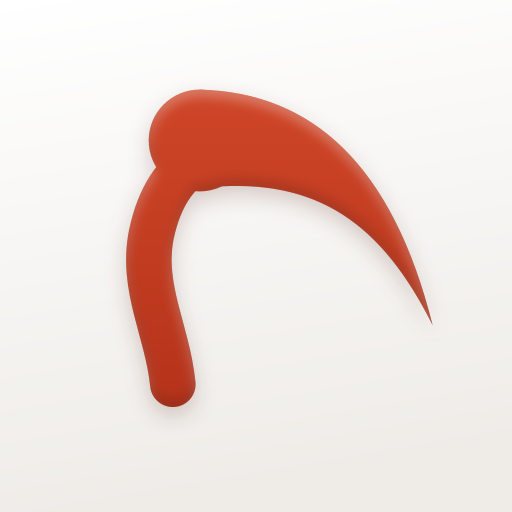
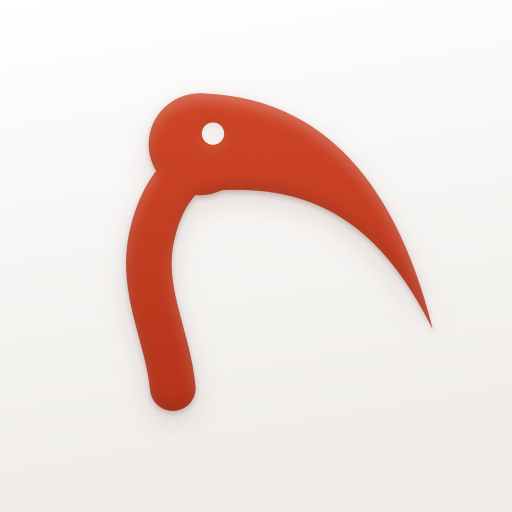
docs: restore the bird's eye in the brand master (#1004)
* docs: restore the bird's eye in the brand master

Add the eye from the approved app icon as its own symbol and cut it
out of the mark, so the background shows through on light and dark.
Favicons leave it out, as the app's small icon does. Halve the
vertical optical lift so the bird sits a little lower in containers.

Closes #1003

* docs: cut the eye crisply and add an eye depth setting

Cut the eye after the depth so its edge stays sharp, and fade the
depth's rim light and shade back in inside it with eye_depth (0.35) in
settings.json. Tag every copy of the neck and head in the animation,
and fix the symbol count wording.

Refs #1003

* docs: layer the brand depth and soften the eye shading

Replace the single shadow with a tight contact shadow and a wide,
faint ambient one, and soften the rim light and shade, all set in
settings.json. Keep square files the same size with layout.shadow_room.
Feather the eye's shading instead of clipping it, and fade it in after
the head grows in the animation.

Refs #1003

---------

diff --git a/brand/build.py b/brand/build.py
@@ -114,7 +114,8 @@ def optical_centre(name, neck=None):
 
 
 def depth_filter(fid, box):
-    """One soft light along the top rim, a shade along the bottom rim, and a short shadow.
+    """One soft light along the top rim, a shade along the bottom rim, and two shadows: a tight
+    contact shadow right under the shape and a wide, faint ambient one.
 
     The region is fixed in the symbol's units around its whole outline, so the shadow is never cut
     off, even mid-animation when only part of the shape is drawn.
@@ -129,11 +130,16 @@ def depth_filter(fid, box):
         f'<feFlood flood-color="#fff" flood-opacity="{D["rim_light"]}"/><feComposite in2="top" operator="in" result="hl"/>'
         f'<feOffset in="b" dy="{-D["rim_offset"]}" result="bu"/><feComposite in="SourceAlpha" in2="bu" operator="out" result="bot"/>'
         f'<feFlood flood-color="#000" flood-opacity="{D["rim_shade"]}"/><feComposite in2="bot" operator="in" result="sh"/>'
+        f'<feGaussianBlur in="SourceAlpha" stdDeviation="{D["contact_blur"]}" result="cb"/>'
+        f'<feOffset in="cb" dy="{D["contact_drop"]}" result="co"/>'
+        f'<feFlood flood-color="{D["shadow_colour"]}" flood-opacity="{D["contact_opacity"]}"/>'
+        '<feComposite in2="co" operator="in" result="contact"/>'
         f'<feGaussianBlur in="SourceAlpha" stdDeviation="{D["shadow_blur"]}" result="db"/>'
         f'<feOffset in="db" dy="{D["shadow_drop"]}" result="do"/>'
         f'<feFlood flood-color="{D["shadow_colour"]}" flood-opacity="{D["shadow_opacity"]}"/>'
         '<feComposite in2="do" operator="in" result="drop"/>'
-        '<feMerge><feMergeNode in="drop"/><feMergeNode in="SourceGraphic"/><feMergeNode in="hl"/><feMergeNode in="sh"/></feMerge>'
+        '<feMerge><feMergeNode in="drop"/><feMergeNode in="contact"/><feMergeNode in="SourceGraphic"/>'
+        '<feMergeNode in="hl"/><feMergeNode in="sh"/></feMerge>'
         "</filter>"
     )
 
@@ -150,9 +156,37 @@ def draw(name, k, tx, ty, paint, uid, depth=False, neck=None):
                 + depth_filter(f"{uid}f", SYM[name][0]))
         paint, attr = f"url(#{uid}g)", f' filter="url(#{uid}f)"'
     if neck:
-        body = thicken(body, neck)
+        body = thicken(body, neck)       # favicon sizes: no eye, as in the app's small icon
     body = body.replace("currentColor", paint)
-    return defs, f'<g transform="translate({tx:.3f} {ty:.3f}) scale({k:.5f})"><g{attr}>{body}</g></g>'
+    shape = f"<g{attr}>{body}</g>"
+    if name == "mark" and not neck:
+        mask, shape = cut_eye(body, uid, attr)
+        defs += mask
+    return defs, f'<g transform="translate({tx:.3f} {ty:.3f}) scale({k:.5f})">{shape}</g>'
+
+
+def cut_eye(body, uid, attr):
+    """Cut the eye out of the bird, so whatever is behind it shows through on any background.
+
+    The cut is made after the depth, so the eye is crisp. `eye_depth` (0 to 1) then fades in the
+    depth's own rim light and shade inside the eye, for a slightly inset look.
+    """
+    bx, by, bw, bh = SYM["mark"][0]
+    m = 4 * D["shadow_blur"]
+    box = f'x="{bx - m:g}" y="{by - m:g}" width="{bw + 2 * m:g}" height="{bh + 2 * m + D["shadow_drop"]:g}"'
+    eye = SYM["eye"][1].replace("currentColor", "#000")
+    defs = f'<mask id="{uid}e" maskUnits="userSpaceOnUse" {box}><rect {box} fill="#fff"/>{eye}</mask>'
+    shape = f'<g mask="url(#{uid}e)"><g{attr}>{body}</g></g>'
+    if attr and D["eye_depth"] > 0:
+        (ex, ey, ew, eh), _ = SYM["eye"]
+        cx, cy, r = ex + ew / 2, ey + eh / 2, 3.2 * ew      # feathered, so the shading has no edge
+        defs += (f'<radialGradient id="{uid}r" gradientUnits="userSpaceOnUse" cx="{cx:g}" cy="{cy:g}" r="{r:g}">'
+                 '<stop offset="0.3" stop-color="#fff"/><stop offset="1" stop-color="#000"/></radialGradient>'
+                 f'<mask id="{uid}s" maskUnits="userSpaceOnUse" x="{cx - r:g}" y="{cy - r:g}" width="{2 * r:g}" height="{2 * r:g}">'
+                 f'<circle cx="{cx:g}" cy="{cy:g}" r="{r:g}" fill="url(#{uid}r)"/></mask>')
+        shape += (f'<g class="eyeshade" mask="url(#{uid}s)" opacity="{D["eye_depth"]:g}">'
+                  f'<g{attr}><g mask="url(#{uid}e)">{body}</g></g></g>')
+    return defs, shape
 
 
 def place(name, x, y, height, paint, uid, depth=False):
@@ -186,7 +220,7 @@ def doc(w, h, defs, body, size=None):
 
 def mark(paint, uid, depth=True):
     bh = SYM["mark"][0][3]
-    side = fitted_side("mark", PAD * bh + D["shadow_drop"])
+    side = fitted_side("mark", PAD * bh + L["shadow_room"])
     defs, body = centred("mark", side, bh, paint, uid, depth)
     return doc(side, side, defs, body, (512, 512))
 
@@ -354,18 +388,21 @@ def motion_css():
         f".neck{{stroke-dasharray:1;animation:draw {t['neck_duration']}s {t['ease']} {t['neck_start']}s backwards}}"
         f".crown{{transform-box:fill-box;transform-origin:18% 22%;"
         f"animation:grow {t['crown_duration']}s {t['crown_ease']} {t['crown_start']}s backwards}}"
+        # The eye's shading fades in once the head has grown, so the two copies never show apart.
+        f".eyeshade{{animation:fade 0.2s linear {t['crown_start'] + t['crown_duration']:g}s backwards}}"
         f".word{{animation:word {t['word_duration']}s {t['ease']} {t['word_start']}s backwards}}"
         "@keyframes draw{0%{stroke-dashoffset:1;opacity:0}8%{opacity:1}to{stroke-dashoffset:0}}"
         f"@keyframes grow{{0%{{transform:rotate({t['crown_turn']}deg) scale({t['crown_from']});opacity:0}}15%{{opacity:1}}}}"
         f"@keyframes word{{0%{{opacity:0;transform:translateX({-t['word_slide']}px)}}}}"
-        "@media (prefers-reduced-motion:reduce){.neck,.crown,.word{animation:none}}"
+        "@keyframes fade{0%{opacity:0}}"
+        "@media (prefers-reduced-motion:reduce){.neck,.crown,.word,.eyeshade{animation:none}}"
     )
 
 
 def animate(svg):
     """Tag the neck and group the head with the beak so they grow from the head's centre as one shape."""
-    out = svg.replace('<path d="M36', '<path class="neck" pathLength="1" d="M36', 1)
-    out = re.sub(r'(<path d="M41 25[^"]*"[^>]*/>)(<circle [^>]*/>)', r'<g class="crown">\1\2</g>', out, count=1)
+    out = svg.replace('<path d="M36', '<path class="neck" pathLength="1" d="M36')
+    out = re.sub(r'(<path d="M41 25[^"]*"[^>]*/>)(<circle [^>]*/>)', r'<g class="crown">\1\2</g>', out)
     if 'class="neck"' not in out or 'class="crown"' not in out:
         raise SystemExit("master.svg's bird changed shape order; update animate() in build.py")
     return out.replace("<defs>", f"<defs><style>{motion_css()}</style>", 1)

diff --git a/brand/README.md b/brand/README.md
@@ -30,8 +30,9 @@ M is the height of the bird.
 - **Space.** Every file already keeps 0.135 M free on each side for the soft shadow. On a page, keep at least 0.25 M clear around the logo.
 - **Logo.** The wordmark's capital height is 0.55 M, centred on the bird, with 0.34 M between the beak tip and "Ibis". Show it about 240 px wide in a README. When the bird would be under 24 px tall, use the bird alone.
 - **In a container.** The bird is 62% of the height of an app icon, avatar or maskable icon. Favicons use the largest bird that fits.
-- **Optical centre.** The bird's weight is in its head, so its outline's centre looks too far left. Square files and containers move it sideways halfway toward its centre of mass (which `build.py` measures from the master) and, vertically, keep the outline's centre lifted 1.5% of the container, a little above the middle.
-- **Depth.** The soft depth is for 48 px and up; smaller uses the flat bird. Favicons use a slightly thicker neck so the bird still reads at 16 px.
+- **Optical centre.** The bird's weight is in its head, so its outline's centre looks too far left. Square files and containers move it sideways halfway toward its centre of mass (which `build.py` measures from the master) and, vertically, keep the outline's centre lifted 0.75% of the container, just above the middle.
+- **Eye.** The bird has an eye, cut out so the background shows through it. It is cut crisply after the depth, and `eye_depth` in `settings.json` (0 for flat, 1 for full) sets how much soft shading shows inside it. Favicons leave it out, because it would be under a pixel.
+- **Depth.** A soft light along the top edge, a shade along the bottom, a tight contact shadow and a wide, faint ambient shadow, all set in `settings.json`. The soft depth is for 48 px and up; smaller uses the flat bird. Favicons use a slightly thicker neck so the bird still reads at 16 px.
 - **Colour.** Scarlet 600 `#C23A1C` on light backgrounds and Scarlet 400 `#FF7A5C` on dark. Text is Ink `#16181D` or Slate `#4C5260` on light, and near-white on dark. The full Scarlet scale (50 to 900) is for websites and videos: tints for backgrounds, 600 to 800 for text and links on light. Never stretch, outline or recolour the bird in other hues, or add effects.
 - **Themes.** Websites use `colors.css`: light by default, dark when the system is dark, and an optional dim theme (`data-theme="dim"`) for a softer charcoal. Each theme names the same roles: `bg`, `surface`, `line`, `text`, `muted`, `accent`, `accent-soft`.
 - **Motion.** The logo animation draws the neck, grows the head and beak out together as one shape, then fades in the wordmark, in about 1.5 s. People who ask their system for reduced motion see the finished logo. Use it once per page or video, never on a loop.
@@ -42,7 +43,7 @@ M is the height of the bird.
 Two files hold everything you might want to change:
 
 - `settings.json`: every colour, size, spacing, depth (rim light, shade and shadow), animation timing and line of text, with plain names. Small adjustments happen here.
-- `master.svg`: the three shapes as exact outlines with no padding: the bird (`mark`), the wordmark (`wordmark`, Inter Display SemiBold, outlined) and the quote mark (`beak`). Edit it only to change a shape.
+- `master.svg`: the shapes as exact outlines with no padding: the bird (`mark`), its eye (`eye`), the wordmark (`wordmark`, Inter Display SemiBold, outlined) and the quote mark (`beak`). Edit it only to change a shape.
 
 After editing either, rebuild every export from the repository root:
 
